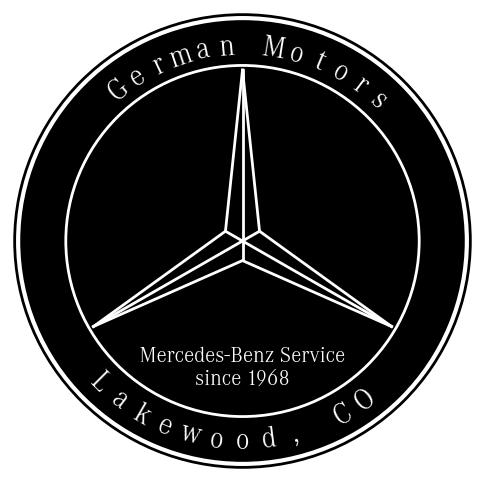
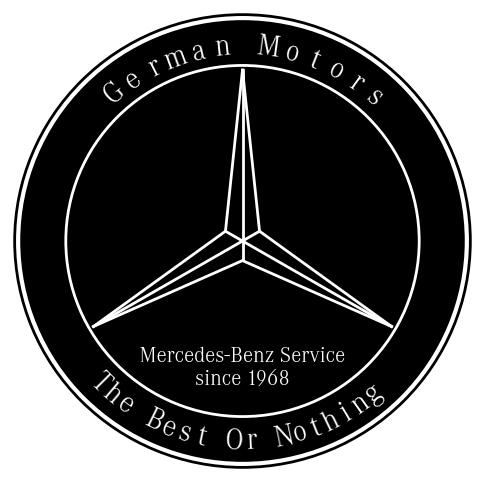
text iteration

Changed region(s): [[0.186, 0.778, 0.8058, 0.9336], [0.5269, 0.0622, 0.8058, 0.2178], [0.2169, 0.0622, 0.4959, 0.2178]]

diff --git a/germanMotors.py b/germanMotors.py
@@ -2,7 +2,7 @@ import matplotlib.pyplot as plt
 import numpy as np
 from matplotlib.font_manager import FontProperties
 
-class MercedesEmblem():
+class EmblemCreator():
     def __init__(self, font_path='MercedesFont.ttf'):
         self.font_path = font_path
         self.fig, self.ax = plt.subplots(figsize=(6, 6))
@@ -18,15 +18,15 @@ class MercedesEmblem():
         self.draw_circle((0.5, 0.5), 0.475, color='black', fill=True, linewidth=2)
 
     def draw_first_inner_circle(self):
-        self.draw_circle((0.5, 0.5), 0.40, color='black', fill=True, linewidth=2)
+        self.draw_circle((0.5, 0.5), 0.38, color='black', fill=True, linewidth=2)
 
     def draw_second_inner_circle(self):
         self.draw_circle((0.5, 0.5), 0.38, color='white', fill=False, linewidth=2)
 
     def draw_tristar(self):
         center = np.array([0.5, 0.5])
-        radius = 0.37
-        angles = np.linspace(0, 2 * np.pi, 4)[:-1] + np.pi / 6 + np.pi 
+        radius = 0.37  # Adjust as needed to fit the emblem
+        angles = np.linspace(0, 2 * np.pi, 4)[:-1] + np.pi / 6 + np.pi # 120-degree intervals, starting from 30 degrees
         end_points = []
 
         for angle in angles:
@@ -46,7 +46,7 @@ class MercedesEmblem():
     def draw_inverted_tristar(self):
         center = np.array([0.5, 0.5])
         radius = 0.04  # Adjust as needed to fit the emblem
-        angles = np.linspace(0, 2 * np.pi, 4)[:-1] + np.pi / 6 
+        angles = np.linspace(0, 2 * np.pi, 4)[:-1] + np.pi / 6 # 120-degree intervals, starting from 30 degrees
         end_points = []
 
         for angle in angles:
@@ -55,13 +55,13 @@ class MercedesEmblem():
             self.ax.plot([center[0], x_end], [center[1], y_end], color='white', linewidth=2)
             end_points.append((x_end, y_end, angle))
 
-    def add_top_text(self, text='German Motors', startAngle=3/4*(np.pi)):
+    def add_top_text(self, text='German Motors', startAngle=3/4*(np.pi) + np.pi/128):
         mercedes_font = FontProperties(fname=self.font_path, size=20)
         radius = 0.42
         center = (0.5, 0.5)
         angle_step = (2 * np.pi) / len(text) * 1/4
         for i, char in enumerate(text):
-            angle = startAngle - np.pi/32 - angle_step * i
+            angle = startAngle - np.pi/32 - angle_step * i   # Start angle at 45 degrees
             x = center[0] + radius * np.cos(angle)
             y = center[1] + radius * np.sin(angle)
 
@@ -104,12 +104,12 @@ class MercedesEmblem():
         self.draw_tristar()  # Draw the tristar
         self.draw_inverted_tristar()
         self.add_top_text(text='German Motors')
-        self.add_bottom_text(text='Lakewood, CO')
+        self.add_bottom_text(text='The Best Or Nothing')
         self.add_center_text(first_line = "Mercedes-Benz Service", second_line = "since 1968")
         self.set_limits_and_remove_axes()
         plt.savefig(logo_name, bbox_inches='tight', pad_inches=0.1)
         plt.show()
 
 # Usage
-emblem_creator = MercedesEmblem()
-emblem_creator.create_emblem("germanMotors.jpeg")
+emblem_creator = EmblemCreator()
+emblem_creator.create_emblem("germanMotors.pdf")
